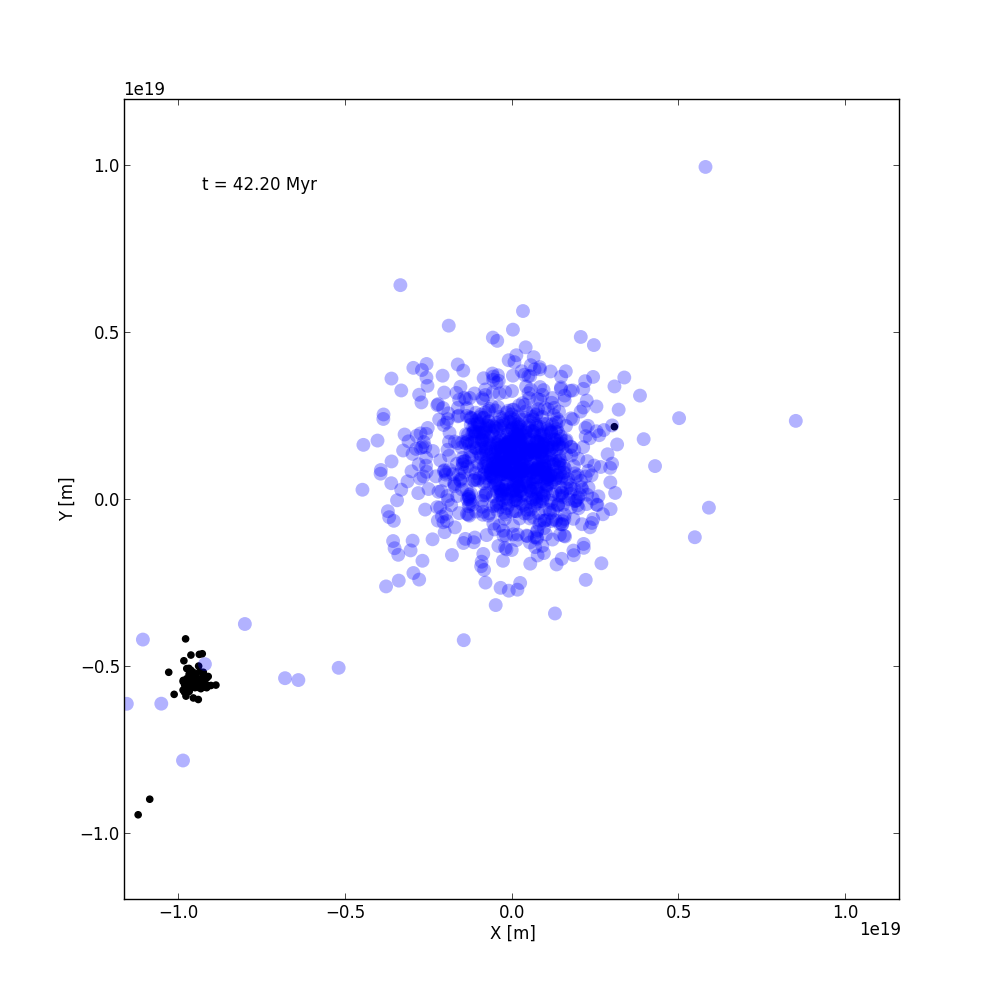
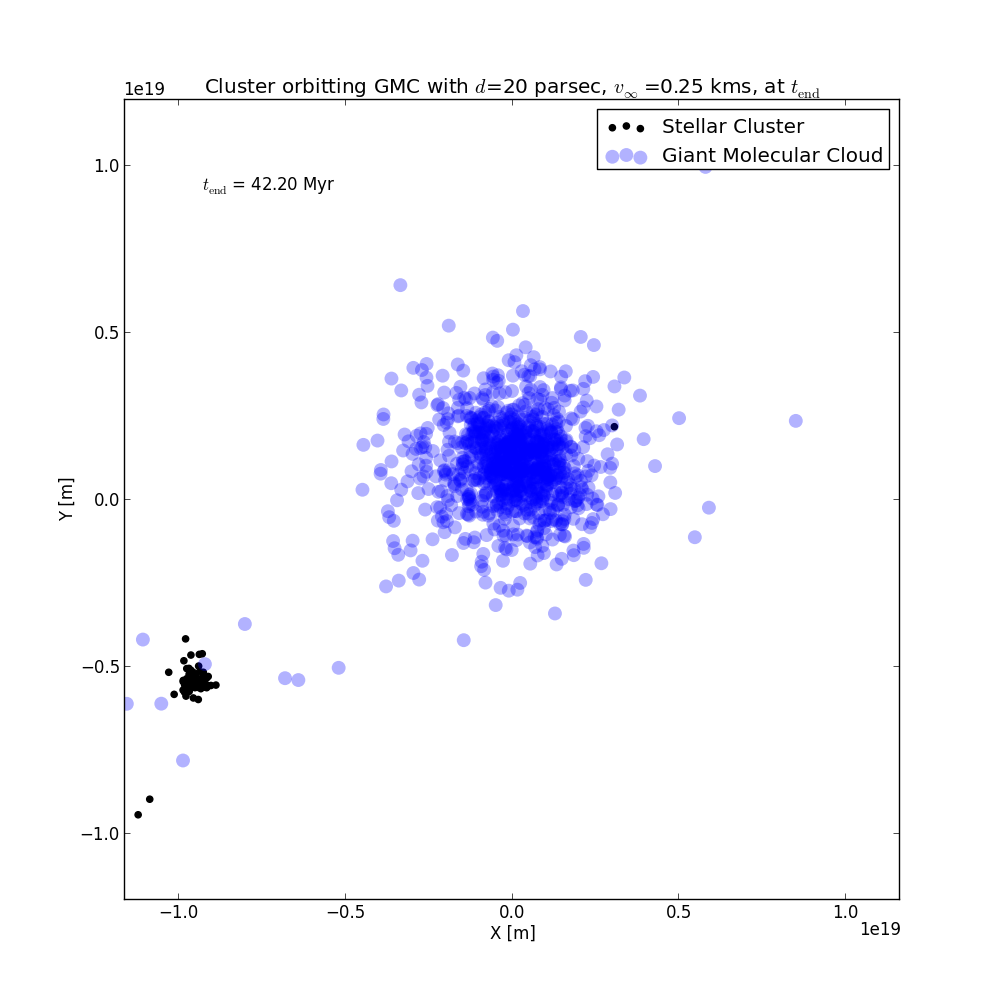
updated plots 3c, v gedeeld door 100

Changed region(s): [[0.589, 0.062, 0.899, 0.186], [0.217, 0.062, 0.589, 0.093], [0.248, 0.155, 0.31, 0.186]]

diff --git a/reports/CA_Hydro_TLRH_s1603221_SS_s1617451_report_aa.tex b/reports/CA_Hydro_TLRH_s1603221_SS_s1617451_report_aa.tex
@@ -217,7 +217,7 @@ An example of this visualization is presented in Fig.~\ref{fig:GMC_with_cluster}
     \caption{Snapshot a stellar cluster (black) in orbit around a giant molecular cloud (blue, centered). The cloud is plotted transparent points because the dots indicate smoothed particle hydrodynamics particles representing regions of gas, not point masses.}\label{fig:GMC_with_cluster}
 \end{figure}
 
-The parameter space is varied as following. The values of $v_\infty$, in unit km/s, vary from 5 to 25 at intervals of 5, and from 25 to 300 with a step size of 25. For each $v_\infty$ value we simulate the impact parameter $d$, in unit parsec, from 5 to 15 incrementing with 5, and from 20 to 300 with 20 units between the data points. Within this range of $d$ and $v_\infty$ we obtain the interesting cases given in Table~\ref{tab:cases}, where the parameters can also be found and a reference to the end state of the simulation. Fig.~\ref{fig:v_25_d_280} to Fig.~\ref{fig:v_25_d5} show those end states. The previous paragraph also applies here.
+The parameter space is varied as following. The values of $v_\infty$, in unit km/s, vary from 0.05 to 0.25 at intervals of 5, and from 0.25 to 3 with a step size of 0.25. For each $v_\infty$ value we simulate the impact parameter $d$, in unit parsec, from 5 to 15 incrementing with 5, and from 20 to 300 with 20 units between the data points. Within this range of $d$ and $v_\infty$ we obtain the interesting cases given in Table~\ref{tab:cases}, where the parameters can also be found and a reference to the end state of the simulation. Fig.~\ref{fig:v_25_d_280} to Fig.~\ref{fig:v_25_d5} show those end states. The previous paragraph also applies here.
 
 %\textit{Vary the initial parameters of the simulation and produce an image of the following outcomes, if one is not possible, discuss why:}
 
@@ -229,11 +229,11 @@ The parameter space is varied as following. The values of $v_\infty$, in unit km
         \hline\hline
         Case & $v_\infty$ & $d$ & Shown in \\
         \hline
-        Both star cluster and GMC remain intact. & 25 & 280 & Fig.~\ref{fig:v_25_d_280} \\
-        The star cluster is disrupted by the GMC. & 10 & 10 & Fig.~\ref{fig:v_10_d_10} \\
-        The GMC is disrupted by the star cluster. & 15 & 20 & Fig.~\ref{fig:v_15_d_20} \\
-        The star cluster takes some gas from the GMC. & 75 & 80 & Fig.~\ref{fig:v_75_d_80} \\
-        The star cluster is captured and remains inside the GMC. & 25 & 5 & Fig.~\ref{fig:v_25_d_5} \\
+        Both star cluster and GMC remain intact. & 0.25 & 280 & Fig.~\ref{fig:v_25_d_280} \\
+        The star cluster is disrupted by the GMC. & 0.10 & 10 & Fig.~\ref{fig:v_10_d_10} \\
+        The GMC is disrupted by the star cluster. & 0.15 & 20 & Fig.~\ref{fig:v_15_d_20} \\
+        The star cluster takes some gas from the GMC. & 0.75 & 80 & Fig.~\ref{fig:v_75_d_80} \\
+        The star cluster is captured and remains inside the GMC. & 0.25 & 5 & Fig.~\ref{fig:v_25_d_5} \\
         \hline
     \end{tabular}
 \end{table*}
@@ -241,27 +241,27 @@ The parameter space is varied as following. The values of $v_\infty$, in unit km
 \begin{figure}[h!]
     \centering
     \includegraphics[width=\hsize]{img/v_25_d_280.png}
-    \caption{Snapshot of a stellar cluster that has initial velocity at infinity $v_\infty = 25$ km/s and giant molecular cloud with impact parameter $d = 280$ parsec. From this image it can clearly be seen that both the cluster and the cloud remain intact. The end time of the simulation $t$ is indicated in the upper left corner.}\label{fig:v_25_d_280}.
+    \caption{Snapshot of a stellar cluster that has initial velocity at infinity $v_\infty = 0.25$ km/s and giant molecular cloud with impact parameter $d = 280$ parsec. From this image it can clearly be seen that both the cluster and the cloud remain intact. The end time of the simulation $t$ is indicated in the upper left corner.}\label{fig:v_25_d_280}.
 \end{figure}
 \begin{figure}[h!]
     \centering
     \includegraphics[width=\hsize]{img/v_10_d_10.png}
-    \caption{Here $v_\infty = 10$ km/s and $d = 10$ parsec results in a disruption of the cluster by the cloud.}\label{fig:v_10_d_10}
+    \caption{Here $v_\infty = 0.10$ km/s and $d = 10$ parsec results in a disruption of the cluster by the cloud.}\label{fig:v_10_d_10}
 \end{figure}
 \begin{figure}[h!]
     \centering
     \includegraphics[width=\hsize]{img/v_15_d_20.png}
-    \caption{With initial parameters $v_\infty = 15$ km/s and $d = 20$ parsec we observe that the cloud is disrupted by the cluster.}\label{fig:v_15_d_20}
+    \caption{With initial parameters $v_\infty = 0.15$ km/s and $d = 20$ parsec we observe that the cloud is disrupted by the cluster.}\label{fig:v_15_d_20}
 \end{figure}
 \begin{figure}[h!]
     \centering
     \includegraphics[width=\hsize]{img/v_75_d_80.png}
-    \caption{Simulating with $v_\infty = 65$ km/s and $d = 80$ parsec it can be seen that some of the gas from the cloud is gravitationally bound by the cluster}\label{fig:v_75_d_80}
+    \caption{Simulating with $v_\infty = 0.75$ km/s and $d = 80$ parsec it can be seen that some of the gas from the cloud is gravitationally bound by the cluster}\label{fig:v_75_d_80}
 \end{figure}
 \begin{figure}[h!]
     \centering
     \includegraphics[width=\hsize]{img/v_25_d_5.png}
-    \caption{Using $v_\infty = 25$ km/s and $d = 5$ parsec yields a partially captured cluster by the cloud. It is not clear from this image if the cluster is fully captures. This should be studied in greater detail prior to drawing conclusions.}\label{fig:v_25_d_5}
+    \caption{Using $v_\infty = 0.25$ km/s and $d = 5$ parsec yields a partially captured cluster by the cloud. It is not clear from this image if the cluster is fully captures. This should be studied in greater detail prior to drawing conclusions.}\label{fig:v_25_d_5}
 \end{figure}
 
 The result in Fig.~\ref{fig:v_25_d_5} we find surprising. Our expectation is that the capture of the cluster by the GMC will not happen. Notice that this is merely a snapshot at one fixed point in time. The upper right stars seem to indicate that the cluster has been disrupted but it might not remain inside the GMC. This particular case requires a more elaborate analysis in order to conclude whether or not it stays inside the GMC. The reason for this expectation is REPLACE
